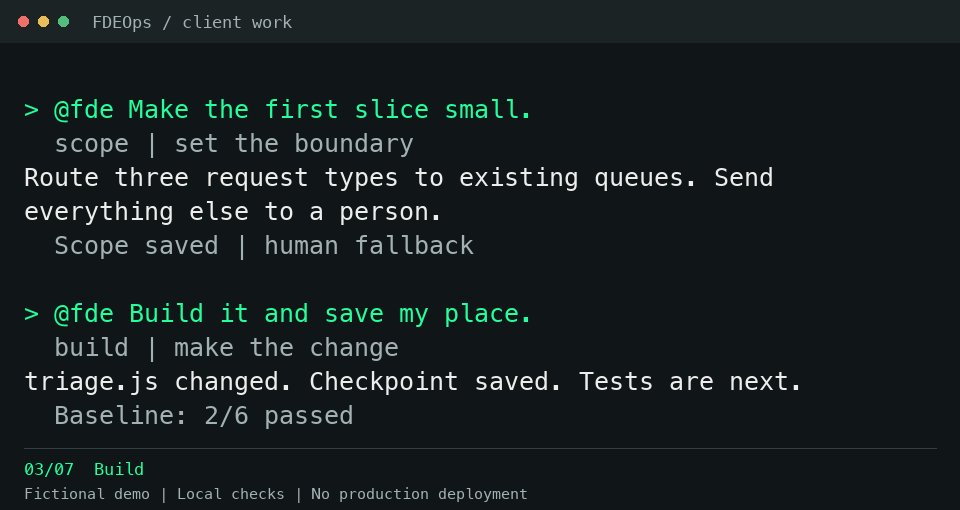
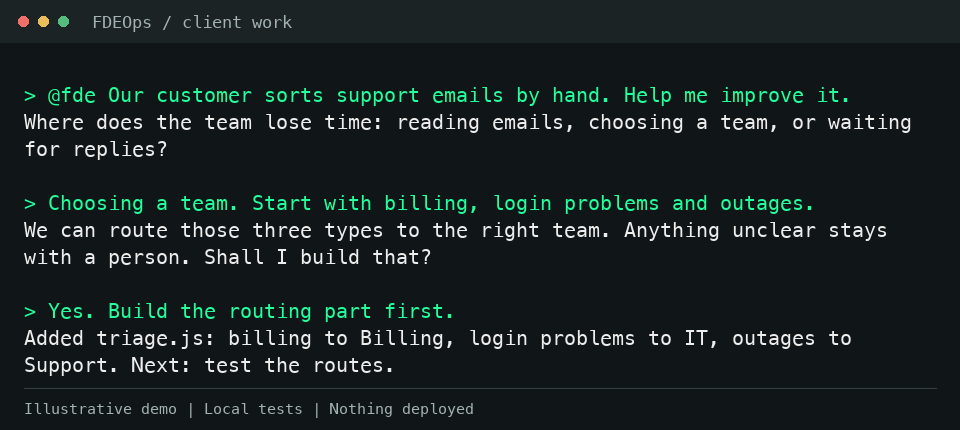
Simplify the terminal demo around customer email routing

diff --git a/media/workday-fixture/triage.test.js b/media/workday-fixture/triage.test.js
@@ -3,14 +3,14 @@ import assert from 'node:assert/strict';
 import { createRouter } from './triage.js';
 
 const route = createRouter(request => request.type, {
-  billing: 'billing', access: 'identity', incident: 'reliability'
+  billing: 'Billing', access: 'IT', incident: 'Support'
 });
 
 test('routes billing requests', () => assert.deepEqual(route({ type: 'billing' }), {
-  status: 'routed', queue: 'billing', reason: 'classified as billing'
+  status: 'routed', queue: 'Billing', reason: 'classified as billing'
 }));
-test('routes access requests', () => assert.equal(route({ type: 'access' }).queue, 'identity'));
-test('routes incident requests', () => assert.equal(route({ type: 'incident' }).queue, 'reliability'));
+test('routes access requests', () => assert.equal(route({ type: 'access' }).queue, 'IT'));
+test('routes incident requests', () => assert.equal(route({ type: 'incident' }).queue, 'Support'));
 test('keeps unknown requests with a human reviewer', () => assert.equal(route({ type: 'other' }).status, 'review'));
 test('records why a request was routed', () => assert.match(route({ type: 'billing' }).reason, /billing/));
 test('does not route a request without a type', () => assert.equal(route({}).status, 'review'));

diff --git a/media/render-chat-demo.py b/media/render-chat-demo.py
@@ -10,18 +10,17 @@ parser.add_argument('--font', required=True, help='Path to a monospace TrueType 
 args = parser.parse_args()
 root = Path(__file__).resolve().parents[1]
 scenes = json.loads((root / 'media/chat-demo.json').read_text())['scenes']
-width, height = 960, 510
+width, height = 960, 430
 background = '#101617'
 foreground = '#ededed'
 muted = '#a3b1b4'
 green = '#22ff9c'
-fonts = {size: ImageFont.truetype(args.font, size) for size in (15, 17, 25)}
-line_height = 34
-visible_lines = 11
-columns = int((width - 48) / fonts[25].getlength('M'))
+fonts = {size: ImageFont.truetype(args.font, size) for size in (15, 17, 20)}
+line_height = 27
+visible_lines = 12
+columns = int((width - 48) / fonts[20].getlength('M'))
 history = [
-    ('FDEOps  /  one client engagement', green),
-    ('discover → build → verify → hand over', muted),
+    ('FDEOps | Customer project: support emails', muted),
     ('', muted),
 ]
 frames, durations = [], []
@@ -35,11 +34,10 @@ def render(lines, customer, stage):
         draw.ellipse((x, 16, x + 10, 26), fill=color)
     draw.text((92, 12), 'FDEOps / client work', font=fonts[17], fill=muted)
     for index, (line, color) in enumerate(lines[-visible_lines:]):
-        assert draw.textlength(line, font=fonts[25]) <= width - 48, line
-        draw.text((24, 60 + index * line_height), line, font=fonts[25], fill=color)
-    draw.line((24, 448, width - 24, 448), fill='#344044')
-    draw.text((24, 459), stage, font=fonts[17], fill=green)
-    draw.text((24, 485), 'Fictional demo | Local checks | No production deployment',
+        assert draw.textlength(line, font=fonts[20]) <= width - 48, line
+        draw.text((24, 56 + index * line_height), line, font=fonts[20], fill=color)
+    draw.line((24, 388, width - 24, 388), fill='#344044')
+    draw.text((24, 400), 'Illustrative demo | Local tests | Nothing deployed',
               font=fonts[15], fill=muted)
     return image
 
@@ -59,7 +57,6 @@ for index, scene in enumerate(scenes):
     for end in range(3, len(prompt), 3):
         add_frame(history + wrap(prompt[:end] + '_', green), scene, 80)
     history.extend(wrap(prompt, green))
-    history.extend(wrap('  ' + scene['activity'], muted))
     add_frame(history, scene, 1000)
     # Wrap complete responses to the terminal width, rather than forcing
     # every short sentence onto a separate line.
@@ -67,10 +64,6 @@ for index, scene in enumerate(scenes):
     for line in wrap(response, foreground):
         history.append(line)
         add_frame(history, scene, 350)
-    for paragraph in scene.get('receipt', '').split('\n'):
-        if paragraph:
-            history.extend(wrap('  ' + paragraph, muted))
-            add_frame(history, scene, 350)
     add_frame(history, scene, scene.get('hold_ms', 10500))
     if index == 2:
         render(history, scene['customer'], scene['label']).save(root / 'media/chat-demo.png')

diff --git a/media/chat-demo.md b/media/chat-demo.md
@@ -1,56 +1,62 @@
-# FDEOps in one workday
+# FDEOps: a customer email project
 
-One continuous terminal replay: discovery, scope, build, a customer switch, testing, rollout judgment and handover preparation.
+A scripted conversation showing how an engineer uses natural language to take a customer problem through scoping, implementation, a customer switch, checks and handover preparation. Typing and responses are staged for readability; this is not a recording of a live customer engagement.
 
-The user speaks naturally. FDEOps chooses the method and keeps the work moving. The small muted line names the method for the viewer; it is an explanatory label, not a command the user has to remember.
+## Conversation
 
-The GIF is a shortened, edited replay of one fictional support workflow. The local routing fixture, six tests, checkpoints and handover draft were actually exercised. No production system was accessed or deployed.
+**Understand**
 
-## The conversation
+> @fde Our customer sorts support emails by hand. Help me improve it.
 
-1. **Discover** - “The queue is growing. Where do we start?”
+Where does the team lose time: reading emails, choosing a team, or waiting for replies?
 
-   “Trace one request. Measure delay, rework and wrong routes.”
+**Agree the work**
 
-2. **Scope** - “Make the first slice small.”
+> Choosing a team. Start with billing, login problems and outages.
 
-   “Route three request types. Send everything else to a person.”
+We can route those three types to the right team. Anything unclear stays with a person. Shall I build that?
 
-3. **Build** - “Build it. Save my place before the call.”
+**Build**
 
-   “`triage.js` changed. Checkpoint saved. Baseline: 2/6 passed.”
+> Yes. Build the routing part first.
 
-4. **Switch customer** - “I have another customer call. Save this.”
+Added triage.js: billing to Billing, login problems to IT, outages to Support. Next: test the routes.
 
-   “Saved. This work stays intact. Brief ready for the next customer.”
+**Switch customer**
 
-5. **Resume and test** - “Back to the support team. Run the checks.”
+> @fde Save my place. I have a website meeting with my other client.
 
-   “Checkpoint recovered. 6/6 local cases pass. Staging is next.”
+Saved: email routing is built; tests are next. Switching to your other client's notes for the meeting.
 
-6. **Rollout decision** - “Can we roll it out?”
+**Resume and test**
 
-   “Not yet. Test representative requests in staging. Name the operator, rollback and approver.”
+> @fde Back to the email project. Continue where we stopped.
 
-7. **Handover** - “Prepare handover and leave the next step.”
+Resumed the tests. All 6 local checks pass, including sending unknown types to a person.
 
-   “Runbook ready: operate, review, roll back. Next: authorised staging replay.”
+**Prepare rollout**
 
-## What the evidence means
+> Can the customer use it now?
 
-The local fixture starts at 2/6 passing tests and reaches 6/6 after the routing change. That proves the local cases ran; it does not prove customer integration, staging readiness or production value.
+The routing code passes. We still need to connect their inbox and test with approved sample emails before going live.
 
-The handover draft carries the operating questions forward: who operates the queues, who reviews exceptions, how to roll back and who accepts the result. Those conditions remain pending in the demo.
+**Prepare handover**
 
-The customer switch is temporary and read-only. The first work is preserved; no second customer record is changed. The animation stages typing and pauses for readability.
+> Prepare the handover and save what is left.
 
-## Reproduce the local fixture
+Draft saved: team routes, manual review and how to stop routing. Next session: connect and test the inbox.
+
+## What was tested
+
+The included routing function passes six local checks. Inputs already carry a type; the function chooses a team or returns a review status. It does not read, classify or send emails. Inbox connection, customer testing and production deployment remain future work. The customer switch and saved-session responses illustrate intended use, not proof of a live agent run.
+
+Run the local checks:
 
 ```bash
 node --test media/workday-fixture/triage.test.js
 ```
 
-To render the GIF, use Python, Pillow and a monospace font:
+Render the animation with Pillow and a monospace font:
 
 ```bash
 python3 media/render-chat-demo.py --font /path/to/monospace.ttf

diff --git a/media/workday-fixture/handover-draft.md b/media/workday-fixture/handover-draft.md
@@ -4,10 +4,11 @@ Status: Draft. Staging evidence, customer acceptance and project closure remain 
 
 ## What changed
 
-The agreed first slice classifies three request types and routes them to the existing billing, identity and reliability queues. Unrecognised requests stay with a human reviewer. The fixture passes six local cases.
+This illustrative first step routes already-labelled requests: billing to Billing, login problems to IT, and outages to Support. It does not read or classify emails, connect to an inbox, or send messages. Unrecognised requests stay with a human reviewer. The fixture passes six local cases.
 
 ## Before handover
 
+- Connect the approved inbox and establish how emails receive their type.
 - Replay representative requests on customer staging and compare queue assignment, waiting time and rework with the agreed baseline.
 - Name the queue operator and backup. Confirm who reviews unusual requests.
 - Record the acceptance owner and the measure they will accept.

diff --git a/README.md b/README.md
@@ -14,7 +14,7 @@ FDEOps brings that context into the work, from the first meeting to a system the
 
 ![FDEOps terminal: discover, build, verify and hand over a client workflow](media/chat-demo.gif)
 
-*Fictional customers; one workflow. Real local routing code, tests, saved checkpoints and a handover draft. Edited terminal replay; no production deployment. [Read the conversation](media/chat-demo.md) · [View a still](media/chat-demo.png).*
+*Fictional customers. Illustrative conversation with real local routing tests. No live inbox or production deployment. [Read the conversation](media/chat-demo.md) · [View a still](media/chat-demo.png).*
 
 ## Quick start
 
